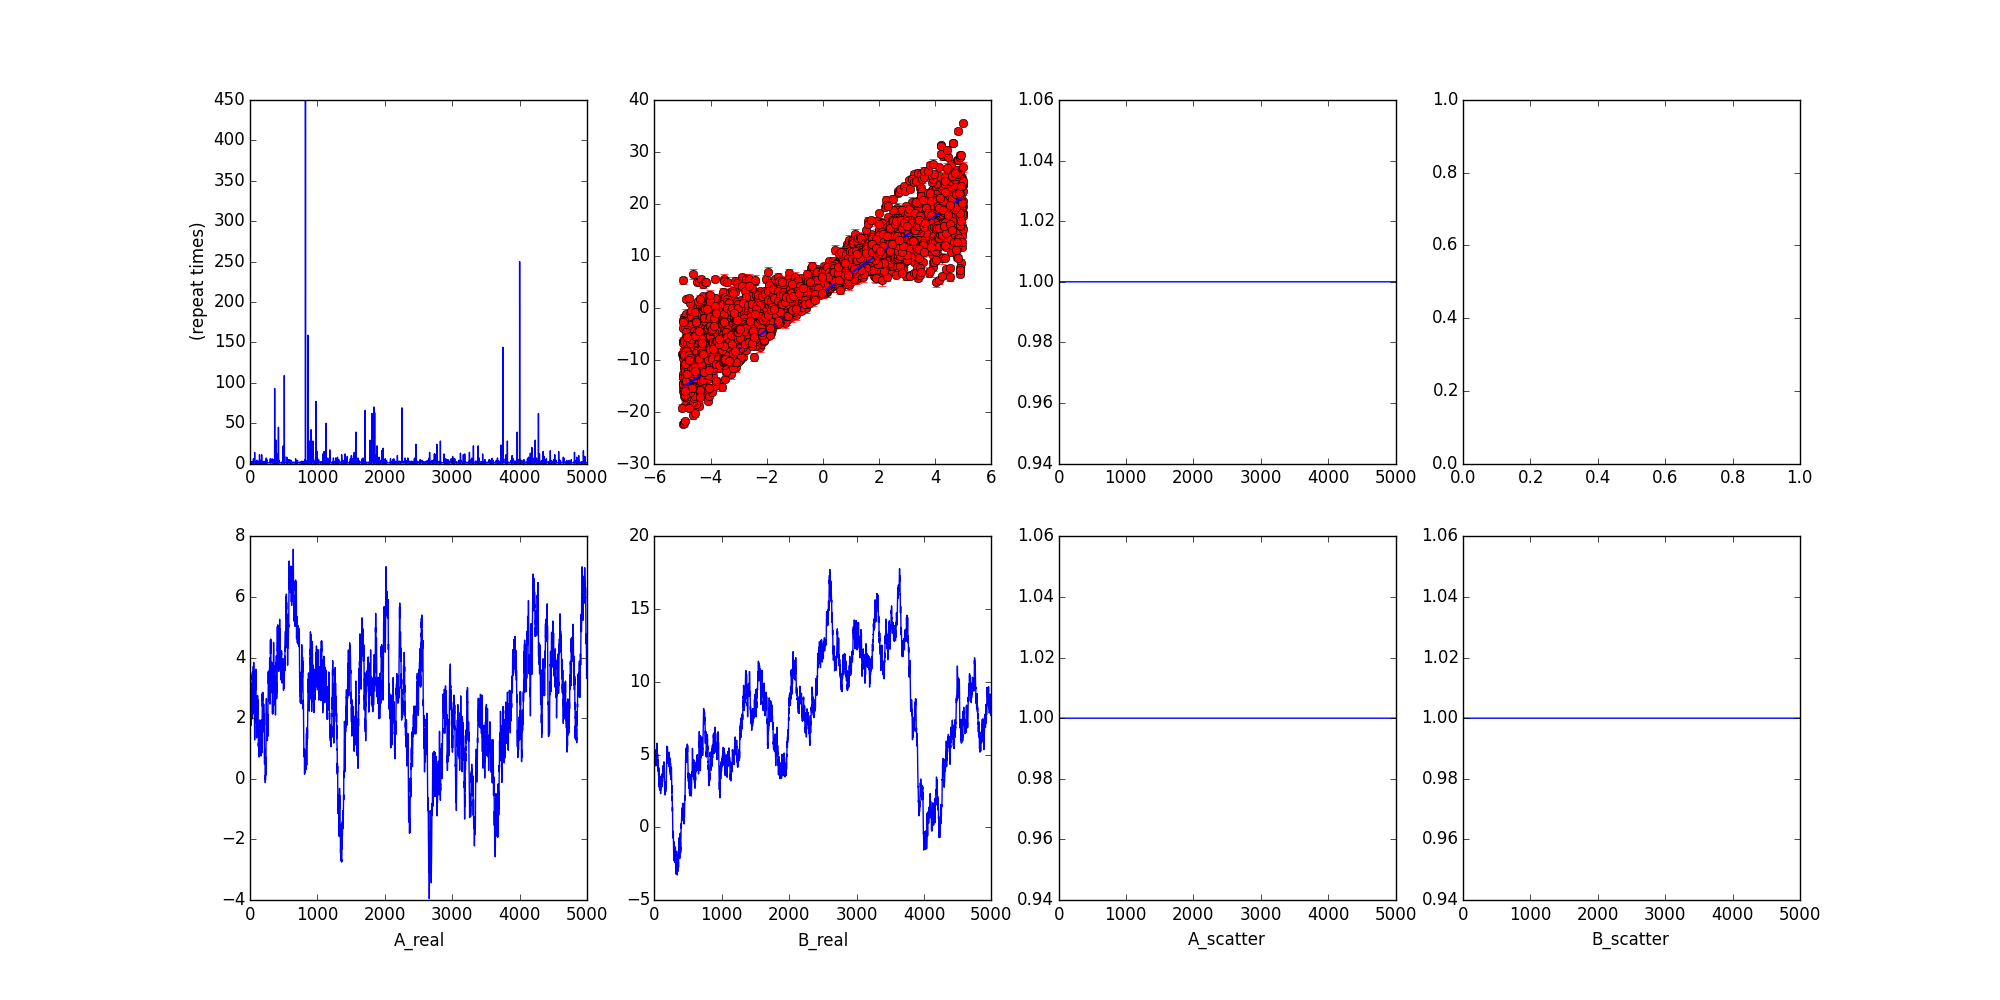
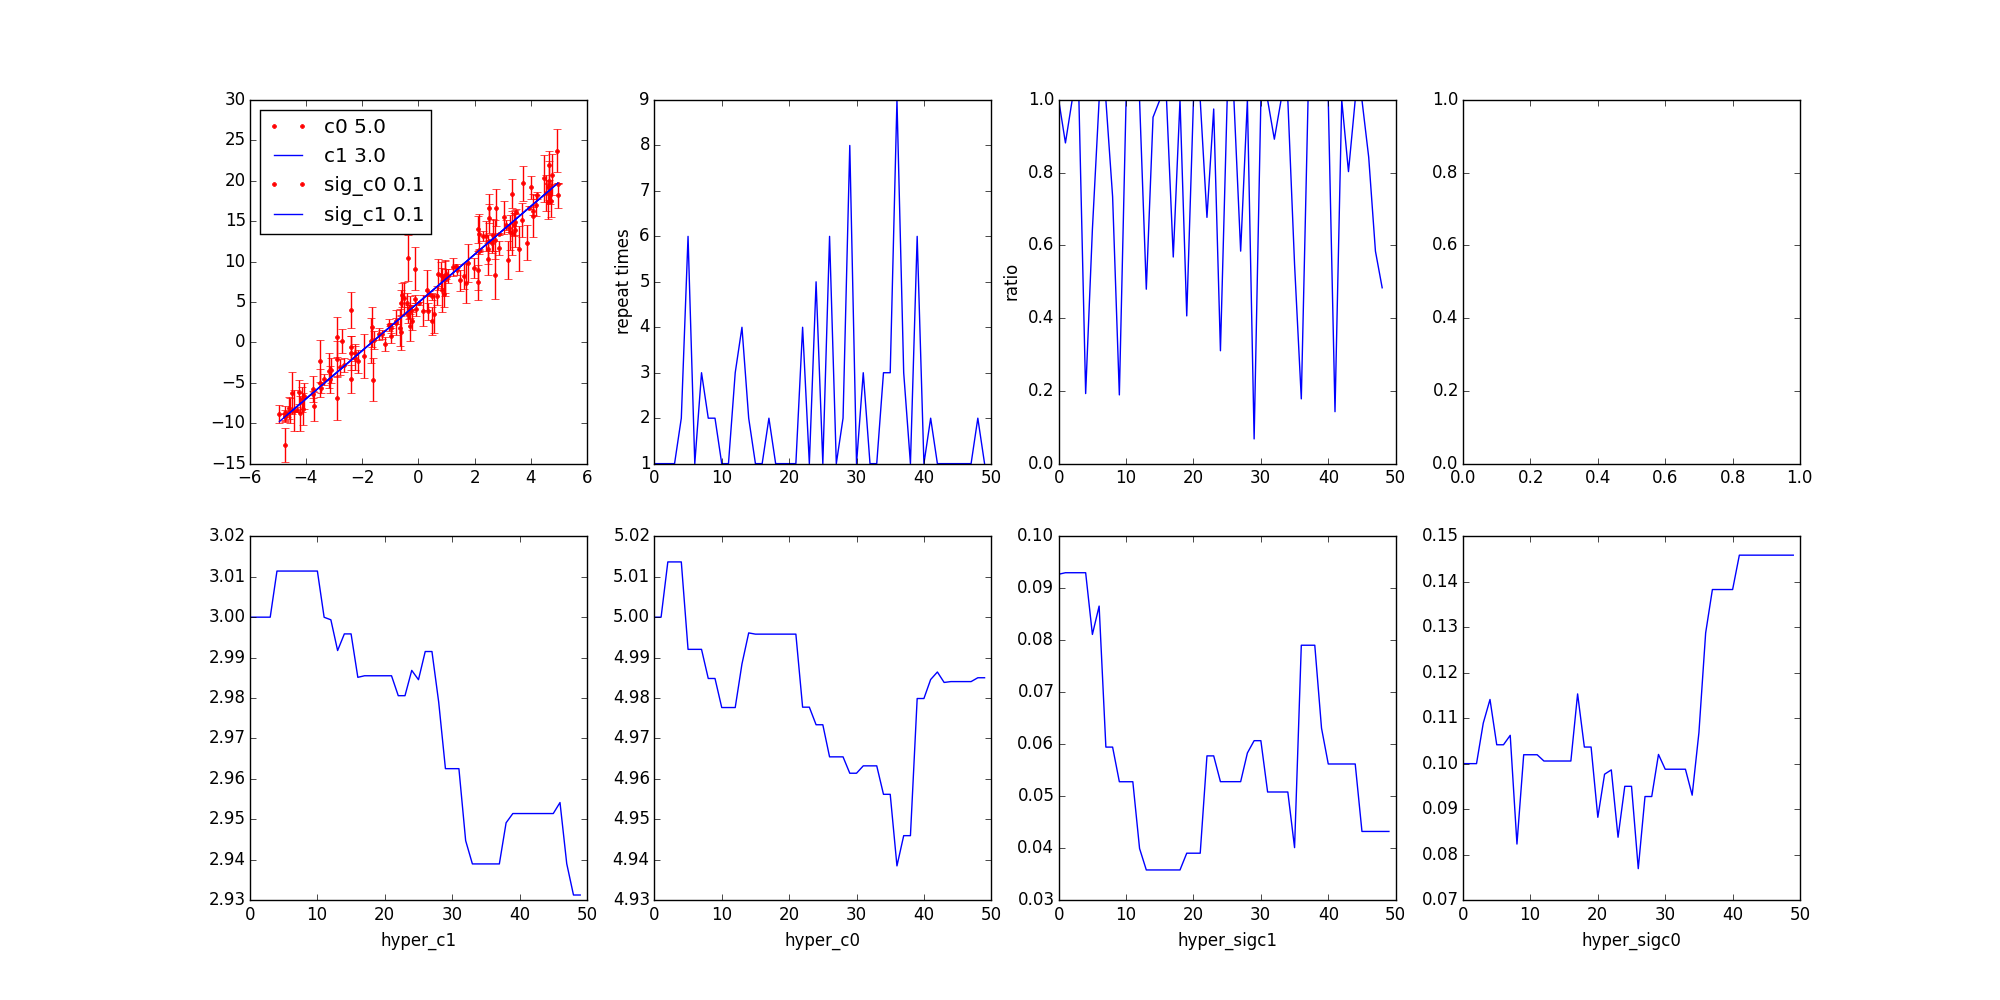
correct hbm but still not working

diff --git a/mcmc_general/mcmc.py b/mcmc_general/mcmc.py
@@ -1,13 +1,19 @@
 '''
 function:
+* domain_pass
+* jump
 * mcmc
 * hbm
+	- hbm_initial
+	- hbm_likelihood
+	- hbm
 * auto_burn
 
 '''
 
 # import
 import numpy as np
+
 
 ''' domain_pass ''' 
 # incase the parameter jumps outside the domain
@@ -20,6 +26,18 @@ def domain_pass(para, domain):
 		if not (target>require[1]) & (target<require[2]): return False
 	
 	return True
+
+
+''' mcmc jump '''
+def jump(para_old, para_stepsize, single_jump):
+	n_para = len(para_old)
+	if single_jump:
+		ind_para = np.random.choice(n_para,1)
+		para_new = para_old
+		para_new[ind_para] += para_stepsize[ind_para] * np.random.normal(0.,1.)
+	else:
+		para_new = para_old + para_stepsize * np.random.normal(0.,1.,n_para)
+	return para_new
 
 
 ''' mcmc '''
@@ -63,75 +81,74 @@ def mcmc(p0, p_step, n_step, log_likely_func, data=[], seed=2357, *check_func):
 	return p_seq, check_seq
 
 
-''' hbm (hierarchical bayesian model) '''
-def hbm(hyper0, hyper_step, n_step, draw_local_func, n_group, log_likely_func, model, \
-data=[], seed=2357, domain=[], draw_times=10):
+''' hbm initial (hierarchical bayesian model) '''
+def hbm_initial(hyper0, n_step):
 
-	np.random.seed(seed)
-
-	# initial setup: hyper, local, loglike
 	n_hyper = len(hyper0)
 	hyper = np.zeros((n_hyper,n_step))
 	hyper[:,0] = hyper0
 
-	n_local = len(draw_local_func(hyper[:,0]))
-	local = np.zeros((n_local,n_group,n_step))
-	for i_group in range(n_group):
-		local[:,i_group,0] = draw_local_func(hyper[:,0])
-
-	loglike = np.repeat(-np.inf,n_step)
-	loglike[0] = log_likely_func(local[:,:,0], model, *data)
-
 	repeat = np.zeros((n_step,), dtype=np.int)
 	repeat[n_step-1] = 1
 
-	ratio_seq = np.zeros(n_step-1)
+	loglike = np.repeat(-np.inf, n_step)
 
-	# run mcmc: hyper walks, generates local, calculate delta_log, accept/reject
+	return hyper, loglike, repeat
+
+
+''' hbm p(data|hyper)'''
+# sum of log average likelihood
+def hbm_likelihood(hyper,draw_local_func,draw_times,n_group,log_likely_func,model,data=[]):
+	n_local = len(draw_local_func(hyper))
+	loglike_each = np.zeros((draw_times, n_group))
+	for i_group in range(n_group):
+		for i_draw in range(draw_times):
+			local = draw_local_func(hyper)
+			loglike_each[i_draw,i_group] = log_likely_func(local, model, *data)
+	like_each = np.exp(loglike_each)
+	like_group = np.mean(like_each,axis=0)
+	loglike = np.sum(np.log(like_group))
+
+	return loglike
+
+
+''' hbm with mcmc '''
+def hbm(hyper0, hyper_stepsize, n_step, draw_local_func, n_group, log_likely_func, model, \
+data=[], seed=2357, domain=[], draw_times=1, single_jump = False, trial_upbound = 100000):
+
+	np.random.seed(seed)
+
+	### initial setup: hyper, local, loglike
+	hyper, loglike, repeat = hbm_initial(hyper0, n_step)
+	loglike[0] = hbm_likelihood(hyper0,draw_local_func,draw_times,n_group,log_likely_func,model,data)
+
+	### run mcmc: hyper walks, generates local, calculate delta_log, accept/reject
 	for i_step in range(0, n_step-1):
 		step_stay = True		
-		while step_stay & (np.sum(repeat)<100000):
+		while step_stay & (np.sum(repeat)<trial_upbound):
 			repeat[i_step] = repeat[i_step]+1
 
 			hyper_old = hyper[:, i_step]
-			hyper_new = hyper_old + hyper_step * np.random.uniform(-1,1,n_hyper)
+			hyper_new = jump(hyper_old, hyper_stepsize, single_jump)
 
 			# reject new step if out of domain
 			if len(domain) != 0:
 				if not domain_pass(hyper_new,domain): continue
+			
+			loglike_new = hbm_likelihood(hyper_new,draw_local_func,draw_times,n_group,log_likely_func,model,data)
 
-			#FIXME
-			ratio_draw = np.zeros(draw_times)
-			for i_draw in range(draw_times):
-
-				local_old = local[:,:,i_step]
-				local_new = np.zeros((n_local,n_group))
-				for i_group in range(n_group):
-					local_new[:,i_group] = draw_local_func(hyper_new)
-
-				delta_log = log_likely_func(local_new, model, *data) - \
-							log_likely_func(local_old, model, *data)
-				# add a hyper likelihood
-
-				ratio_draw[i_draw] = np.exp(delta_log)
-			ratio = np.mean(ratio_draw)
-
-			#ENDFIXME
+			ratio = np.exp(loglike_new - loglike[i_step])
 
 			# accept new step
 			if (np.random.uniform(0,1) < ratio):
 				hyper[:,i_step+1] = hyper_new
-				local[:,:,i_step+1] = local_new
-				loglike[i_step+1] = log_likely_func(local[:,:,i_step+1], model, *data)
+				loglike[i_step+1] = loglike_new
 				step_stay = False
-				ratio_seq[i_step] = ratio
 
 			# reject new step
 			else: pass
 
-			ratio_seq[np.where(ratio_seq>1.)[0]] = 1.
-
-	return hyper, local, loglike, repeat, ratio_seq 
+	return hyper, loglike, repeat
 
 
 

diff --git a/mcmc_general/test_multiline.py b/mcmc_general/test_multiline.py
@@ -13,31 +13,31 @@ from mcmc import hbm
 
 
 ### input for mcmc
-n_step = 5000
+n_step = 50
 
 
 ### generate line
 seed = 2357
 np.random.seed(seed)
 
-A_real = 3.
-B_real = 5.
-n_group = 100
+hyper_c1 = 3.
+hyper_c0 = 5.
+n_group = 3
 n_point = 50
-A_scatter = 1e0
-B_scatter = 1e0
+hyper_sigc1 = 1e-1
+hyper_sigc0 = 1e-1
 
-a_real = np.random.normal( loc=A_real, scale = A_scatter, size=n_group )
-b_real = np.random.normal( loc=B_real, scale = B_scatter, size=n_group )
+local_c1 = np.random.normal( loc=hyper_c1, scale = hyper_sigc1, size=n_group )
+local_c0 = np.random.normal( loc=hyper_c0, scale = hyper_sigc0, size=n_group )
 
 x_real = np.zeros((n_point,n_group))
 y_data = np.zeros((n_point,n_group))
 y_err = np.zeros((n_point,n_group))
-err_size = 1.
+err_size = 3.
 
 for i in range(n_group):
 	x_real[:,i] = np.sort(np.random.uniform(-5,5,n_point))
-	y_real = model(x_real[:,i],(b_real[i], a_real[i]))
+	y_real = model(x_real[:,i],(local_c0[i], local_c1[i]))
 	y_err[:,i] = err_size * np.random.random(n_point)
 	y_data[:,i] = y_real + np.random.normal(loc=0., scale=y_err[:,i], size=n_point)
 
@@ -52,42 +52,27 @@ def single_log_likely(para, model_func, x_real, y_data, y_err):
 	return 0.-np.sum( (y_model - y_data)**2./(2.* y_err**2.) )
 
 
-def log_likely_func(local_para, model, x_real, y_data, y_err):
-	n_point,n_group = np.shape(x_real)
-
-	# local_para[n_local,n_group]
-	n1,n2 = np.shape(local_para)
-	if n1 == n_group: local_para = np.transpose(local_para)
-
-	# assign each set of para to a set of data, sum the log likelihood
-	sum_loglike = 0.
-	for i in range(n_group):
-		sum_loglike = sum_loglike + \
-					single_log_likely(local_para[:,i], model, x_real[:,i], y_data[:,i], y_err[:,i])
-
-	return sum_loglike
-
 
 ''' draw local from hyper '''
 def draw_local_func(hyper):
-	A_real, B_real, A_scatter, B_scatter = hyper
-	local = np.random.normal(B_real, B_scatter), \
-			np.random.normal(A_real, A_scatter)
+	hyper_c1, hyper_c0, hyper_sigc1, hyper_sigc0 = hyper
+	local = np.random.normal(hyper_c0, hyper_sigc0), \
+			np.random.normal(hyper_c1, hyper_sigc1)
 	return local
 
 
 ### mcmc
-n_hyper = 4 # A_real, B_real, A_scatter, B_scatter
-hyper0 = np.array([A_real,B_real,A_scatter,B_scatter]) 
-hyper_step = np.array([0.5,0.5,0.,0.]) # randomly selected step size
+n_hyper = 4 # hyper_c1, hyper_c0, hyper_sigc1, hyper_sigc0
+hyper0 = np.array([hyper_c1,hyper_c0,hyper_sigc1,hyper_sigc0]) 
+hyper_step = np.array([1e-2,1e-2,1e-2,1e-2]) # randomly selected step size
 
-hyper_seq, local_seq, loglike_seq, repeat, ratio_seq= \
-hbm(hyper0, hyper_step, n_step, draw_local_func, n_group, log_likely_func, model, \
-data=[x_real,y_data,y_err], seed=2357, domain=[[2,0,np.inf],[3,0,np.inf]] )
+hyper_seq, loglike_seq, repeat_seq = \
+hbm(hyper0, hyper_step, n_step, draw_local_func, n_group, single_log_likely, model, \
+data=[x_real,y_data,y_err], seed=2357, domain=[[2,0,np.inf],[3,0,np.inf]], \
+draw_times=100, single_jump = True, trial_upbound = 10000 )
 
-#print hyper_seq[0,:]
-#print repeat
-#print loglike_seq
+print hyper_seq[0,:]
+
 
 ### plot
 row = 2
@@ -99,23 +84,31 @@ ax = ((a00,a01,a02,a03),(a10,a11,a12,a13))
 #for j in range(col):
 	#ax[0][j].plot(np.repeat(hyper_seq[j,:],repeat),'b-')
 
-ax[0][0].plot(repeat,'b-')
-ax[0][0].set_ylabel('(repeat times)')
+
+for i_group in range(n_group):
+	ax[0][0].errorbar(x_real[:,i_group],y_data[:,i_group],yerr = y_err[:,i_group],fmt='r.')
+	ax[0][0].plot(x_real[:,i_group],model(x_real[:,i_group],(local_c0[i], local_c1[i])),'b-')
+ax[0][0].legend(['c0 %.1f' %hyper_c0, 'c1 %.1f' %hyper_c1, 'sig_c0 %.1f' %hyper_sigc0, 'sig_c1 %.1f' %hyper_sigc1],\
+loc=0)
+
+ax[0][1].plot(repeat_seq,'b-')
+ax[0][1].set_ylabel('repeat times')
+
+delta_log = loglike_seq[1:] - loglike_seq[:-1]
+ratio  = np.exp(delta_log)
+ratio[np.where(ratio>1)[0]] = 1
+ax[0][2].plot(ratio, 'b-')
+ax[0][2].set_ylabel('ratio')
+
 
 for j in range(col):
 	ax[1][j].plot(hyper_seq[j,:],'b-')
 
 
-ax[1][0].set_xlabel('A_real')
-ax[1][1].set_xlabel('B_real')
-ax[1][2].set_xlabel('A_scatter')
-ax[1][3].set_xlabel('B_scatter')
+ax[1][0].set_xlabel('hyper_c1')
+ax[1][1].set_xlabel('hyper_c0')
+ax[1][2].set_xlabel('hyper_sigc1')
+ax[1][3].set_xlabel('hyper_sigc0')
 
-for i_group in range(n_group):
-	ax[0][1].plot(x_real[:,i_group],model(x_real[:,i_group],(b_real[i], a_real[i])),'b-')
-	ax[0][1].errorbar(x_real[:,i_group],y_data[:,i_group],yerr = y_err[:,i_group],fmt='ro')
-
-ax[0][2].plot(ratio_seq,'b-')
- 
 
 plt.savefig('plt_test_multiline.png')
